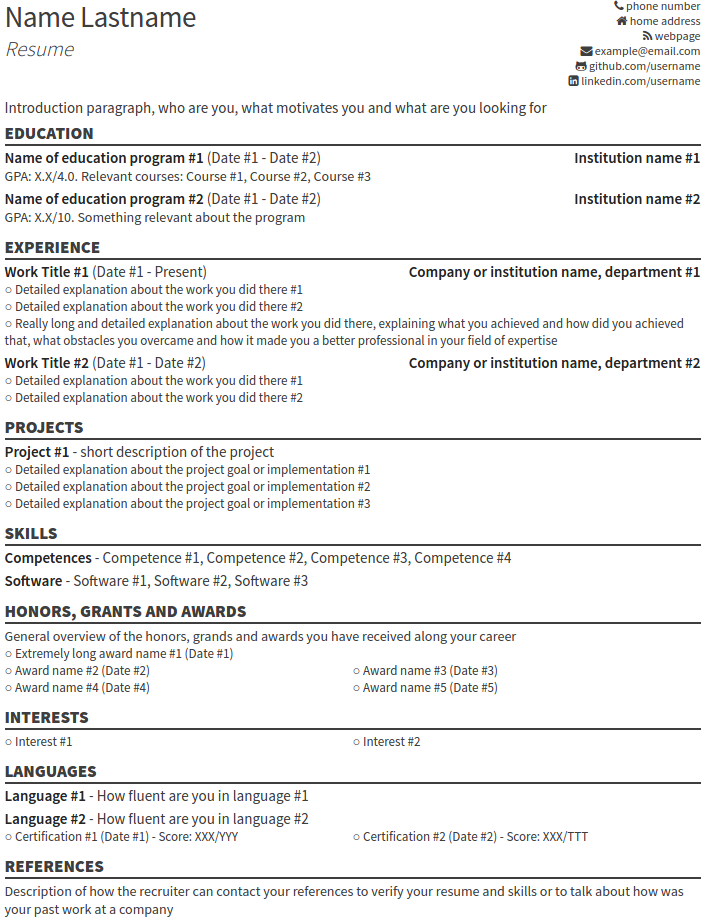
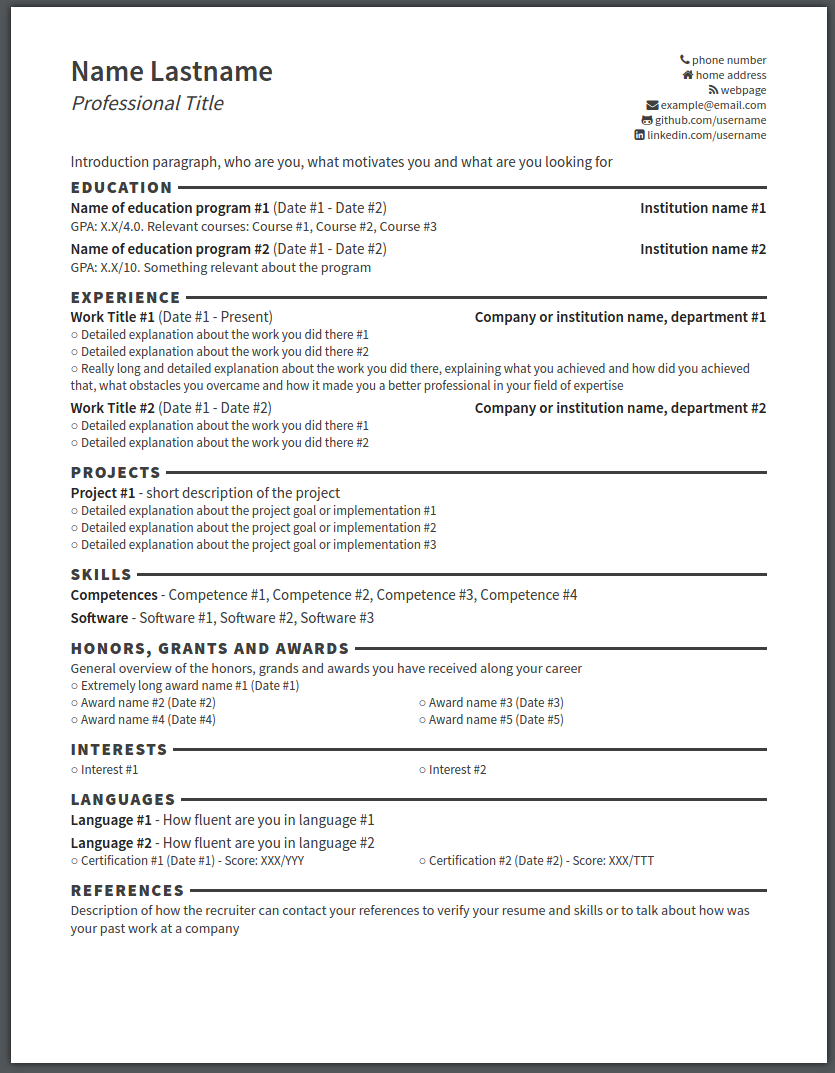
Style changes

Changed region(s): [[0.0, 0.0, 1.0, 1.0], [0.4979, 0.8817, 0.8091, 0.9121]]

diff --git a/resume.css b/resume.css
@@ -52,14 +52,13 @@ a:hover {
 }
 .presentation-name {
   font-size: 22pt;
-  font-weight: 500;
-  letter-spacing: -.5px;
+  font-weight: 600;
   color: #3E3E3E;
 }
 .presentation-label {
   font-size: 16pt;
   font-style: italic;
-  font-weight: 100;
+  font-weight: 400;
   color: #3E3E3E;
 }
 .header-contact {
@@ -91,14 +90,29 @@ a:hover {
   color: #3E3E3E;
   clear: left;
   float: left;
-  border-bottom: 2px solid #3E3E3E;
+  /* border-bottom: 2px solid #3E3E3E; */
+  letter-spacing: +1.5px;
+  margin-bottom: -2px;
 }
-.section-header span {
+.section-header {
   float: left;
-  display: inline-block;
+  clear: none;
   font-size: 13pt;
   font-weight: 900;
   text-transform: uppercase;
+}
+.section-header span {
+  background-color: white;
+  magin-right: 10px;
+}
+.section-header span:after {
+  content: "";
+  display: block;
+  height: 13pt;
+  border-top: 3px solid #3E3E3E;
+  margin-top: -9pt;
+  margin-bottom: -6.5pt;
+  z-index: -1;
 }
 .section-content {
   float: left;
